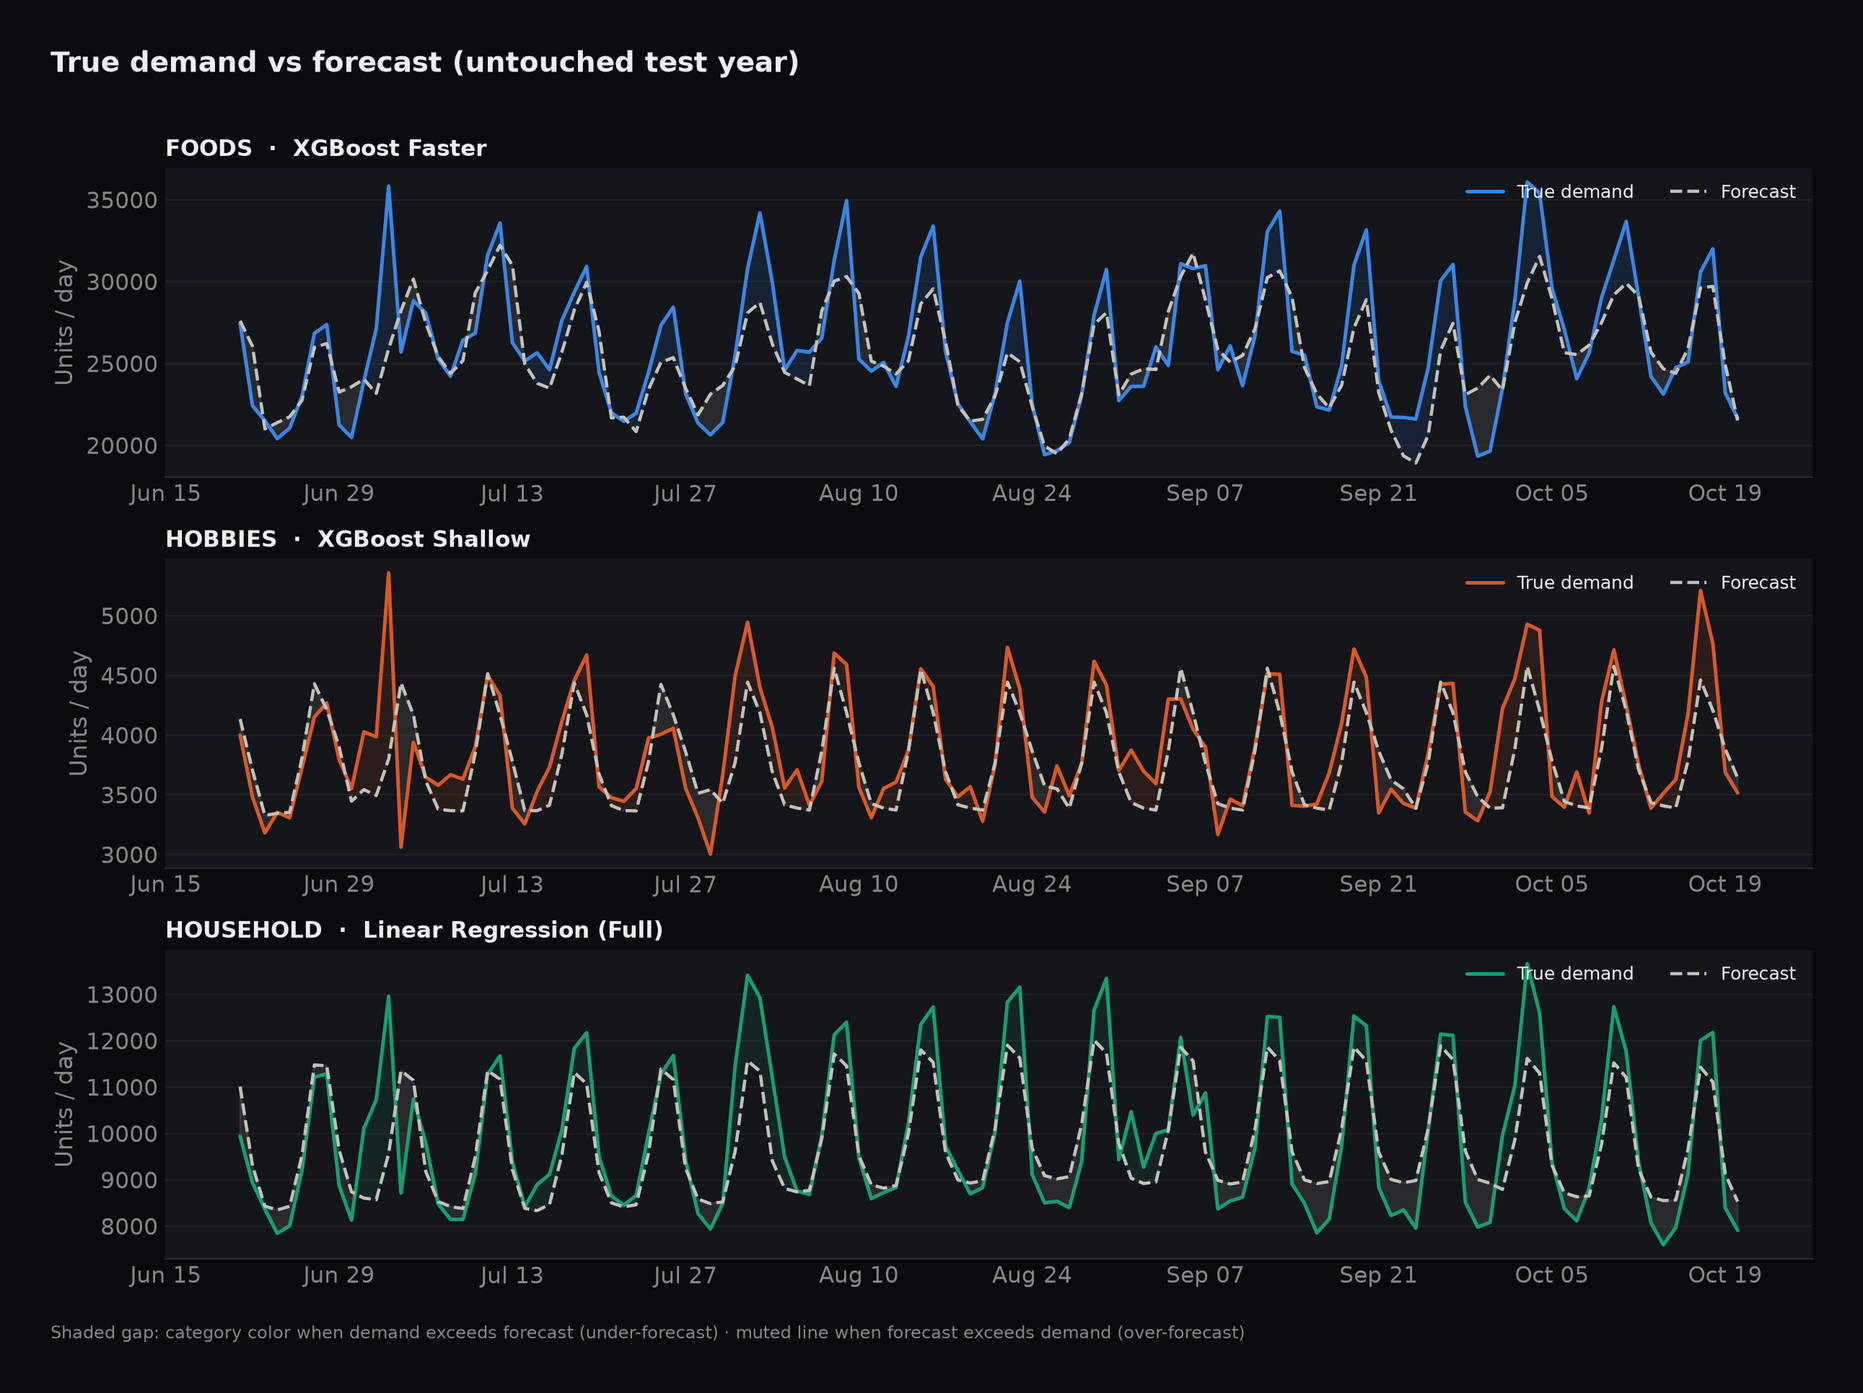
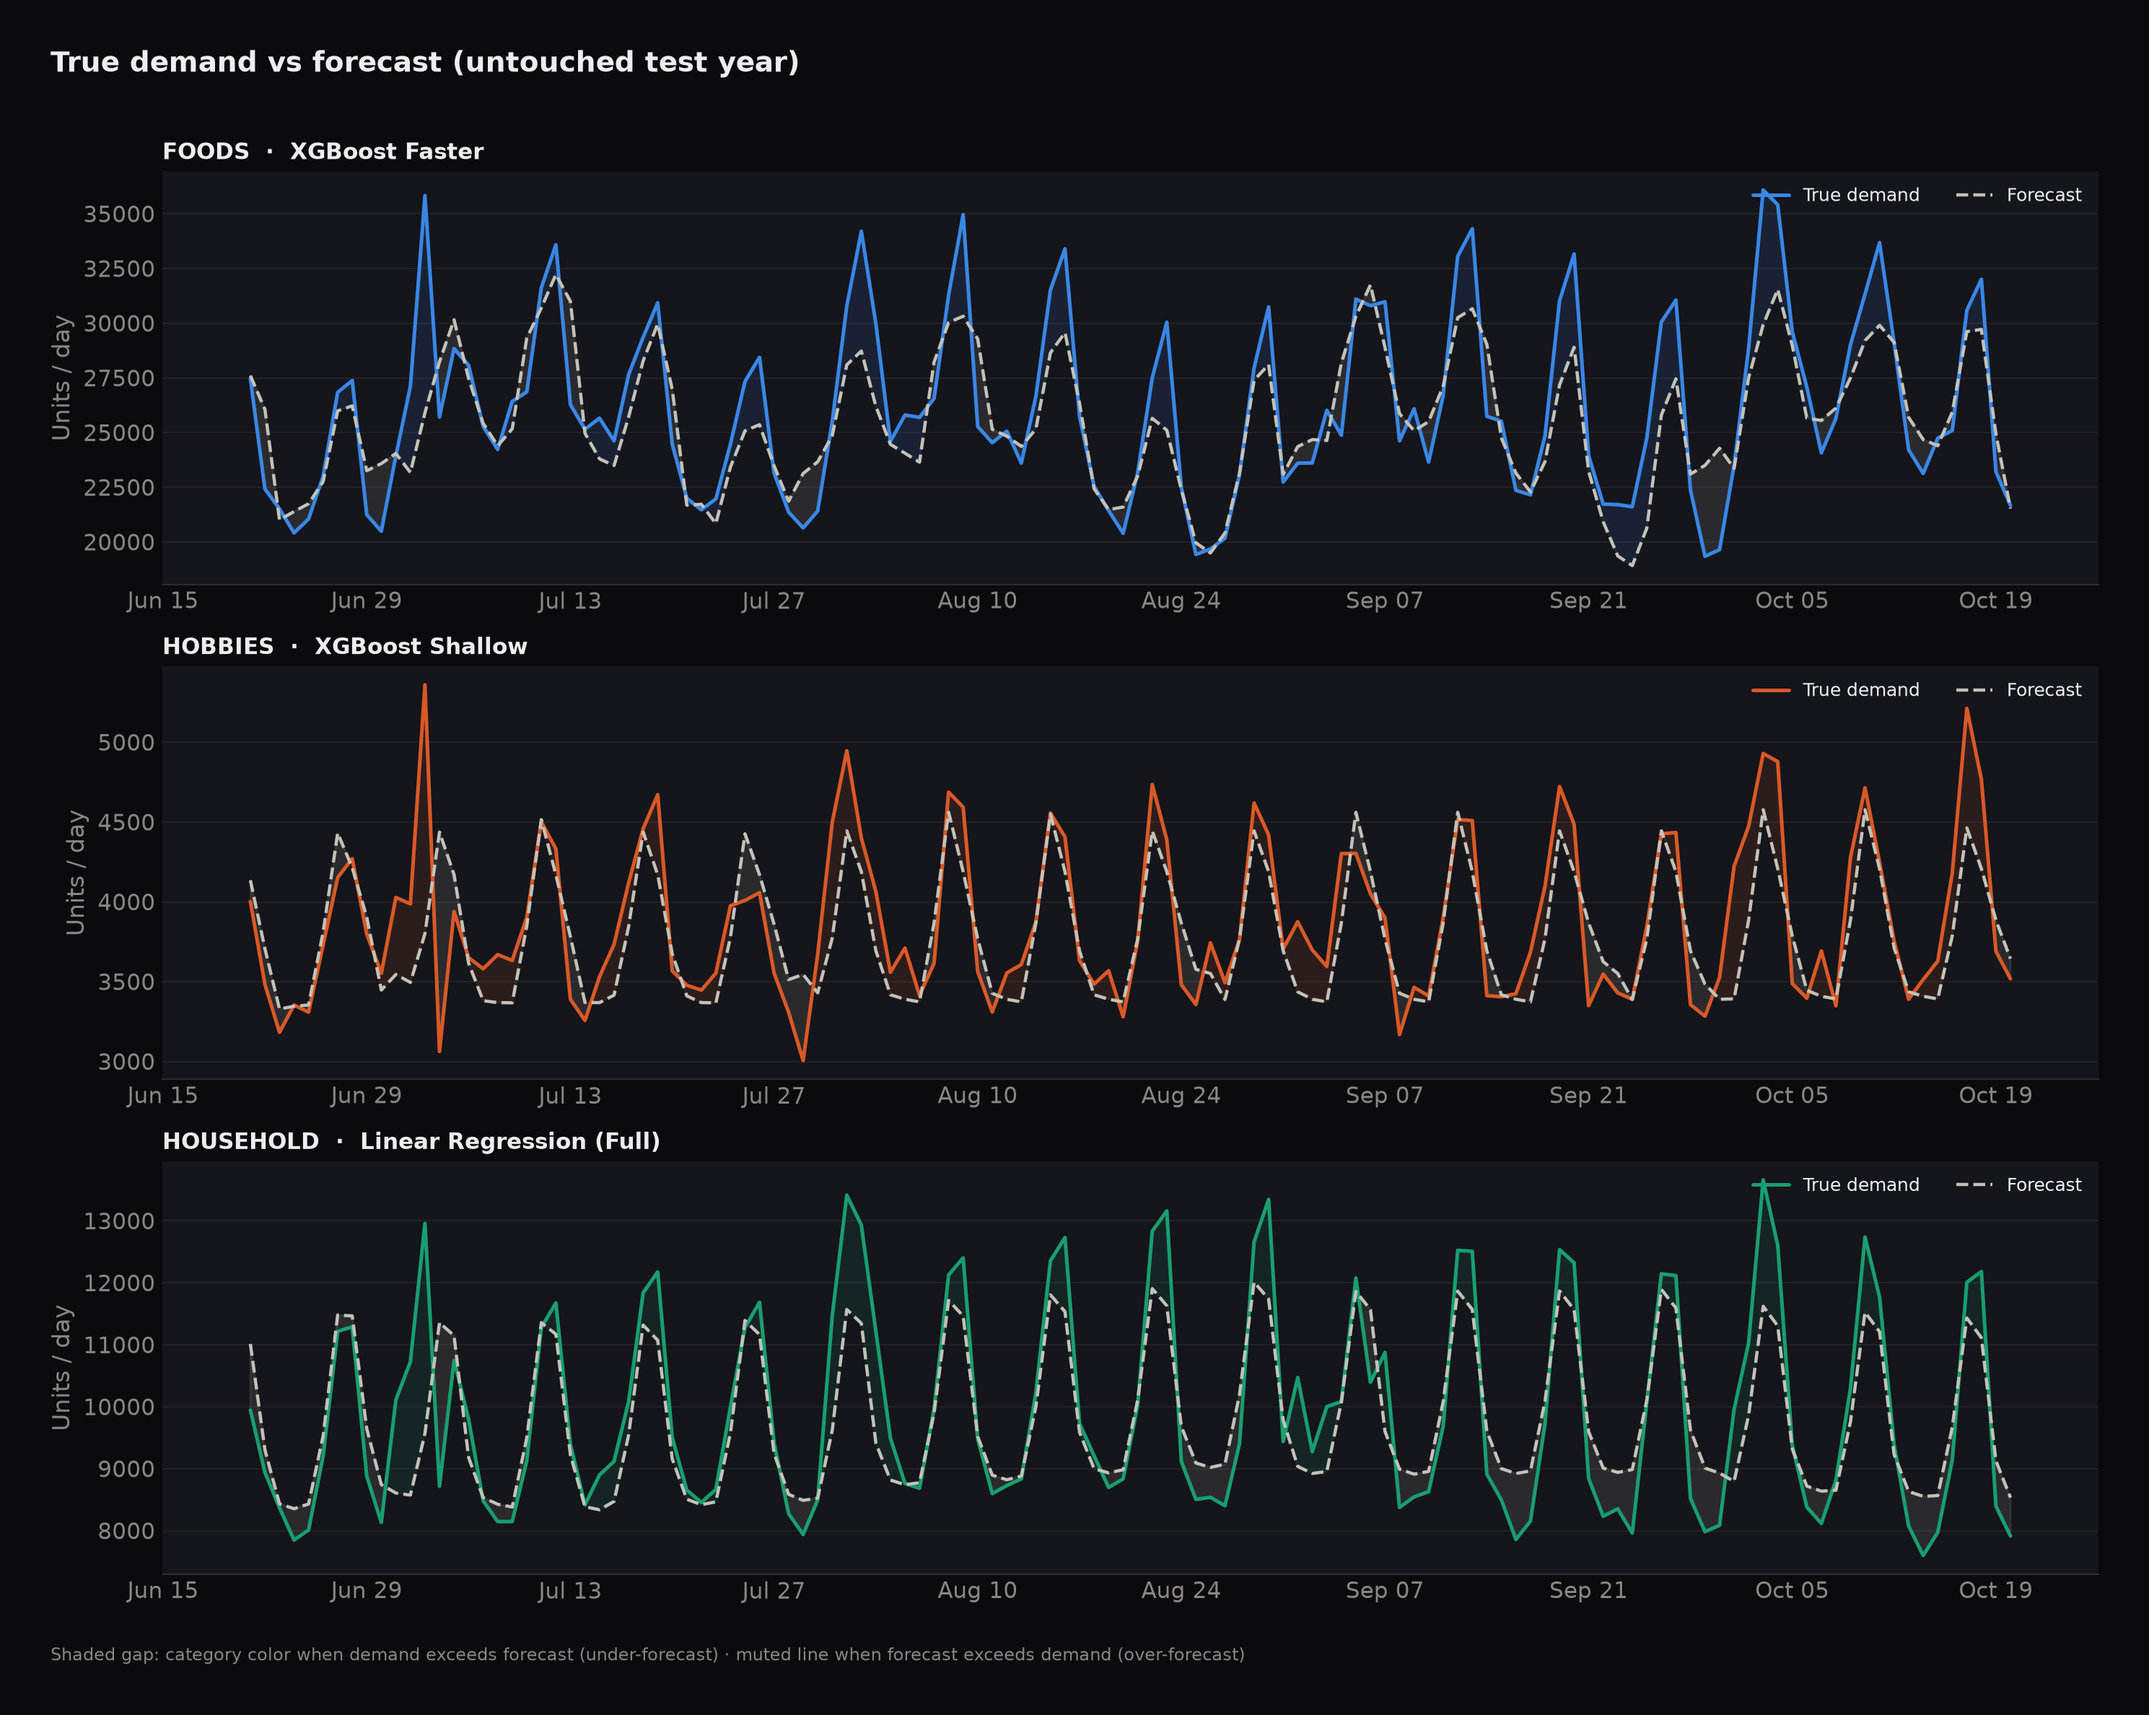
Highlight Dec 25 seasonality drops and enlarge findings charts.
Add interactive demand chart with Christmas reference lines, strengthen Dec 25 markers on static seasonality PNG, export rolling series to chart JSON, and increase gallery and chart heights for readability.

diff --git a/src/components/RetailForecastCharts.jsx b/src/components/RetailForecastCharts.jsx
@@ -8,6 +8,7 @@ import {
     ComposedChart,
     Legend,
     Line,
+    ReferenceLine,
     ResponsiveContainer,
     Tooltip,
     XAxis,
@@ -76,6 +77,18 @@ const CategoryTabs = ({ value, onChange }) => (
     </div>
 );
 
+const tickYear = (ds) => {
+    if (ds.endsWith("-12-25")) return `Dec 25 '${ds.slice(2, 4)}`;
+    if (ds.endsWith("-01-01")) return ds.slice(0, 4);
+    return "";
+};
+
+const ChristmasDot = (color) =>
+    function ChristmasDotMarker({ cx, cy, payload }) {
+        if (!payload?.isChristmas || cx == null || cy == null) return null;
+        return <circle cx={cx} cy={cy} r={5} fill={CHART.accent} stroke={color} strokeWidth={2} />;
+    };
+
 export default function RetailForecastCharts() {
     const [cat, setCat] = useState("FOODS");
 
@@ -120,7 +133,21 @@ export default function RetailForecastCharts() {
         []
     );
 
+    const demandRows = useMemo(() => {
+        const dr = data.demandRolling;
+        if (!dr?.dates) return [];
+        return dr.dates.map((ds, i) => ({
+            ds,
+            tick: tickYear(ds),
+            isChristmas: ds.endsWith("-12-25"),
+            FOODS: dr.FOODS[i],
+            HOBBIES: dr.HOBBIES[i],
+            HOUSEHOLD: dr.HOUSEHOLD[i],
+        }));
+    }, []);
+
     const axisStyle = { fill: CHART.inkMuted, fontSize: 11, fontFamily: "JetBrains Mono, monospace" };
+    const axisStyleSm = { fill: CHART.inkMuted, fontSize: 10, fontFamily: "JetBrains Mono, monospace" };
     const gridProps = { stroke: CHART.grid, vertical: false };
 
     return (
@@ -143,12 +170,79 @@ export default function RetailForecastCharts() {
 
             <CategoryTabs value={cat} onChange={setCat} />
 
+            {demandRows.length > 0 && (
+                <ChartShell
+                    title="Category demand (7-day rolling)"
+                    caption="Full history (2011–2016). Purple markers highlight Dec 25 — demand collapses to near zero when stores close."
+                    className="mt-4"
+                >
+                    <ResponsiveContainer width="100%" height={460}>
+                        <ComposedChart data={demandRows} margin={{ top: 16, right: 12, left: 4, bottom: 28 }}>
+                            <CartesianGrid {...gridProps} />
+                            {data.demandRolling?.christmasDates?.map((ds) => (
+                                <ReferenceLine
+                                    key={ds}
+                                    x={ds}
+                                    stroke={CHART.accent}
+                                    strokeDasharray="5 4"
+                                    strokeWidth={1.5}
+                                    label={{
+                                        value: "Dec 25",
+                                        position: "insideTopRight",
+                                        fill: CHART.accent,
+                                        fontSize: 9,
+                                        fontFamily: "JetBrains Mono, monospace",
+                                    }}
+                                />
+                            ))}
+                            <XAxis
+                                dataKey="ds"
+                                tickFormatter={tickYear}
+                                ticks={demandRows.filter((r) => r.tick).map((r) => r.ds)}
+                                tick={axisStyleSm}
+                                axisLine={false}
+                                tickLine={false}
+                                height={40}
+                            />
+                            <YAxis tick={axisStyle} tickFormatter={fmtUnits} axisLine={false} tickLine={false} width={48} />
+                            <Tooltip
+                                content={({ active, payload }) =>
+                                    active && payload?.length ? (
+                                        <DarkTooltip
+                                            active
+                                            label={payload[0]?.payload?.ds}
+                                            payload={payload.map((p) => ({
+                                                name: p.name,
+                                                value: Number(p.value).toLocaleString(),
+                                                color: p.color,
+                                            }))}
+                                        />
+                                    ) : null
+                                }
+                            />
+                            <Legend wrapperStyle={{ fontFamily: "JetBrains Mono, monospace", fontSize: 11, color: CHART.inkSecondary }} />
+                            {CATS.map((c) => (
+                                <Line
+                                    key={c}
+                                    type="monotone"
+                                    dataKey={c}
+                                    stroke={CAT_COLOR[c]}
+                                    strokeWidth={2}
+                                    dot={ChristmasDot(CAT_COLOR[c])}
+                                    activeDot={{ r: 5 }}
+                                />
+                            ))}
+                        </ComposedChart>
+                    </ResponsiveContainer>
+                </ChartShell>
+            )}
+
             <div className="mt-2 grid gap-0 lg:grid-cols-2">
                 <ChartShell
                     title="Model accuracy"
                     caption={`Test WAPE by model · ${cat}. Lower is better — best model highlighted.`}
                 >
-                    <ResponsiveContainer width="100%" height={300}>
+                    <ResponsiveContainer width="100%" height={380}>
                         <BarChart data={wapeRows} layout="vertical" margin={{ top: 4, right: 48, left: 4, bottom: 4 }}>
                             <CartesianGrid {...gridProps} />
                             <XAxis type="number" domain={[0, "dataMax + 2"]} tick={axisStyle} tickFormatter={(v) => `${v}%`} axisLine={false} tickLine={false} />
@@ -178,7 +272,7 @@ export default function RetailForecastCharts() {
                     title="Complexity vs value"
                     caption="Naive → ETS → best observed model. Additional complexity helped selectively, not everywhere."
                 >
-                    <ResponsiveContainer width="100%" height={300}>
+                    <ResponsiveContainer width="100%" height={380}>
                         <ComposedChart data={complexityRows} margin={{ top: 8, right: 8, left: 0, bottom: 4 }}>
                             <CartesianGrid {...gridProps} />
                             <XAxis dataKey="step" tick={axisStyle} axisLine={false} tickLine={false} />
@@ -207,7 +301,7 @@ export default function RetailForecastCharts() {
                 title="Actual vs forecast"
                 caption={`${cat} · ${avf.model} · first 120 days of the untouched test year. Solid area = true demand; dashed line = forecast.`}
             >
-                <ResponsiveContainer width="100%" height={340}>
+                <ResponsiveContainer width="100%" height={440}>
                     <ComposedChart data={avfRows} margin={{ top: 8, right: 12, left: 0, bottom: 4 }}>
                         <defs>
                             <linearGradient id={`demandGrad-${cat}`} x1="0" y1="0" x2="0" y2="1">

diff --git a/src/pages/ProjectDetail.jsx b/src/pages/ProjectDetail.jsx
@@ -139,12 +139,14 @@ export default function ProjectDetail() {
                             <div className="mt-8 space-y-8">
                                 {project.gallery.map((item) => (
                                     <figure key={item.src} className="border border-navy/10 bg-surface/50">
-                                        <img
-                                            src={item.src}
-                                            alt={item.caption}
-                                            className="w-full object-contain"
-                                            loading="lazy"
-                                        />
+                                        <div className="min-h-[28rem] bg-surface p-2 sm:min-h-[32rem] sm:p-4">
+                                            <img
+                                                src={item.src}
+                                                alt={item.caption}
+                                                className="h-full w-full object-contain"
+                                                loading="lazy"
+                                            />
+                                        </div>
                                         <figcaption className="border-t border-navy/10 px-4 py-3 font-mono text-[11px] uppercase tracking-widest text-navy/40">
                                             {item.caption}
                                         </figcaption>

diff --git a/src/data/content.js b/src/data/content.js
@@ -119,7 +119,7 @@ export const projects = [
         gallery: [
             {
                 src: `${process.env.PUBLIC_URL}/images/retail-demand-sales-seasonality.png`,
-                caption: "Category daily sales (7-day rolling) — weekly rhythm and Christmas demand drops.",
+                caption: "Category daily sales (7-day rolling) — purple markers show Dec 25 demand dropping to near zero.",
             },
             {
                 src: `${process.env.PUBLIC_URL}/images/retail-demand-actual-vs-forecast.png`,

diff --git a/scripts/generate_retail_charts.py b/scripts/generate_retail_charts.py
@@ -1,6 +1,7 @@
 #!/usr/bin/env python3
 """Polished portfolio charts for the retail demand forecasting case study."""
 
+import json
 from pathlib import Path
 
 import matplotlib.pyplot as plt
@@ -12,6 +13,7 @@ import seaborn as sns
 ROOT = Path(__file__).resolve().parents[2]
 DATA = ROOT / "retail-operation" / "data" / "processed"
 OUT = Path(__file__).resolve().parents[1] / "public" / "images"
+CHART_JSON = Path(__file__).resolve().parents[1] / "src" / "data" / "retailForecastCharts.json"
 
 # Portfolio theme — matches website_replica (bg #0a0a0f, surface #15151c, raised #1c1c24, accent #a855f7)
 BG = "#0a0a0f"
@@ -142,8 +144,7 @@ def make_hero(daily, forecasts):
     ax1.legend(loc="upper left", ncol=3, fontsize=9, labelcolor=INK)
     ax1.set_xlim(daily["ds"].min(), daily["ds"].max())
     # Christmas markers (subtle accent tint)
-    for year in range(2012, 2017):
-        ax1.axvline(pd.Timestamp(f"{year}-12-25"), color=ACCENT, lw=0.7, ls="--", alpha=0.35, zorder=0)
+    christmas_markers(ax1, years=range(2012, 2017))
 
     # Seasonality
     ax2 = card_axes(fig, [0.625, 0.10, 0.33, 0.55])
@@ -180,32 +181,76 @@ def make_hero(daily, forecasts):
     print("wrote", out)
 
 
+def christmas_markers(ax, years=range(2012, 2017)):
+    """Highlight Dec 25 demand collapses — visible on dark theme."""
+    ymin, ymax = ax.get_ylim()
+    for year in years:
+        x = pd.Timestamp(f"{year}-12-25")
+        ax.axvline(x, color=ACCENT, lw=1.4, ls="--", zorder=4, alpha=0.85)
+        ax.axvspan(x - pd.Timedelta(days=1), x + pd.Timedelta(days=1), color=ACCENT, alpha=0.06, zorder=1)
+        ax.annotate(
+            f"Dec 25 '{str(year)[2:]}",
+            xy=(x, ymax),
+            xytext=(0, 8),
+            textcoords="offset points",
+            ha="center",
+            va="bottom",
+            fontsize=7.5,
+            color=ACCENT,
+            rotation=90,
+        )
+
+
+def export_demand_rolling(daily):
+    """Append downsampled 7-day rolling series + Christmas dates for interactive charts."""
+    if not CHART_JSON.exists():
+        print("skip json export —", CHART_JSON, "missing")
+        return
+    payload = json.loads(CHART_JSON.read_text())
+
+    base = daily.loc[daily["cat_id"] == "FOODS"].sort_values("ds")
+    base_roll = base.set_index("ds")["y"].rolling(7, min_periods=1).mean()
+    dates = []
+    for i, d in enumerate(base_roll.index):
+        if i % 6 == 0 or (d.month == 12 and d.day == 25):
+            dates.append(d.strftime("%Y-%m-%d"))
+
+    rolling = {}
+    for cat in CAT_COLORS:
+        s = daily.loc[daily["cat_id"] == cat].sort_values("ds")
+        y = s.set_index("ds")["y"].rolling(7, min_periods=1).mean()
+        rolling[cat] = [round(float(y.loc[pd.Timestamp(d)]), 1) for d in dates]
+
+    payload["demandRolling"] = {**rolling, "dates": dates, "christmasDates": [d for d in dates if d.endswith("-12-25")]}
+    CHART_JSON.write_text(json.dumps(payload))
+    print("updated", CHART_JSON)
+
+
 def make_seasonality(daily):
-    fig, ax = plt.subplots(figsize=(12.5, 5.6))
+    fig, ax = plt.subplots(figsize=(14.5, 7.8))
     fig.patch.set_facecolor(BG)
     ax.set_facecolor(SURFACE)
-    ax.set_title("Category daily sales (7-day rolling)", loc="left", pad=12)
+    ax.set_title("Category daily sales (7-day rolling)", loc="left", pad=14, fontsize=14)
 
     for cat, color in CAT_COLORS.items():
         s = daily.loc[daily["cat_id"] == cat].sort_values("ds")
         y = s.set_index("ds")["y"].rolling(7, min_periods=1).mean()
-        ax.plot(y.index, y.values, color=color, lw=1.9, label=cat)
-
-    for year in range(2012, 2017):
-        ax.axvline(pd.Timestamp(f"{year}-12-25"), color=ACCENT, lw=0.7, ls="--", zorder=0, alpha=0.35)
+        ax.plot(y.index, y.values, color=color, lw=2.0, label=cat)
 
     soft_y_grid(ax)
-    ax.set_ylabel("Units sold / day")
+    christmas_markers(ax)
+    ax.set_ylabel("Units sold / day", fontsize=11)
     ax.legend(loc="upper left", ncol=3, fontsize=10)
     ax.xaxis.set_major_locator(mdates.YearLocator())
     ax.xaxis.set_major_formatter(mdates.DateFormatter("%Y"))
+    ax.tick_params(axis="both", labelsize=10)
+    fig.subplots_adjust(bottom=0.14)
     fig.text(
-        0.01,
-        -0.02,
-        "Dashed lines mark Christmas · FOODS highest volume · HOUSEHOLD rising over time · HOBBIES more variable",
-        fontsize=8.5,
+        0.045,
+        0.03,
+        "Purple markers = Dec 25 · demand drops to near zero when stores close · FOODS highest volume · HOUSEHOLD rising over time",
+        fontsize=9,
         color=MUTED,
-        transform=ax.transAxes,
     )
     out = OUT / "retail-demand-sales-seasonality.png"
     fig.savefig(out)
@@ -214,7 +259,7 @@ def make_seasonality(daily):
 
 
 def make_actual_vs_forecast(forecasts):
-    fig, axes = plt.subplots(3, 1, figsize=(12.5, 9.2), sharex=False)
+    fig, axes = plt.subplots(3, 1, figsize=(14.5, 11.5), sharex=False)
     fig.patch.set_facecolor(BG)
     fig.suptitle("True demand vs forecast (untouched test year)", x=0.01, ha="left", fontsize=14, fontweight="semibold", color=INK)
 
@@ -285,6 +330,7 @@ def main():
     make_hero(daily, forecasts)
     make_seasonality(daily)
     make_actual_vs_forecast(forecasts)
+    export_demand_rolling(daily)
 
 
 if __name__ == "__main__":
